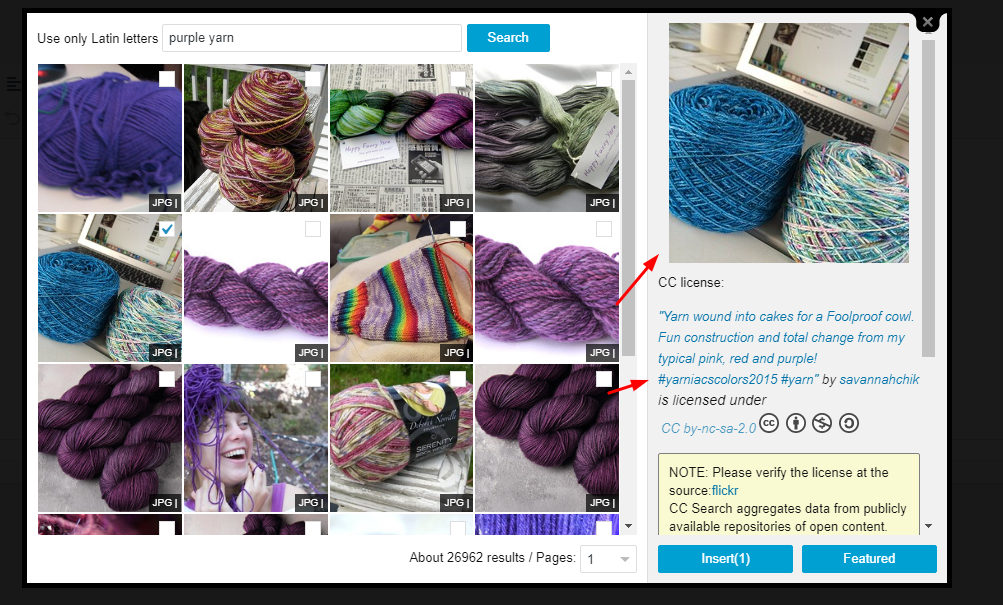
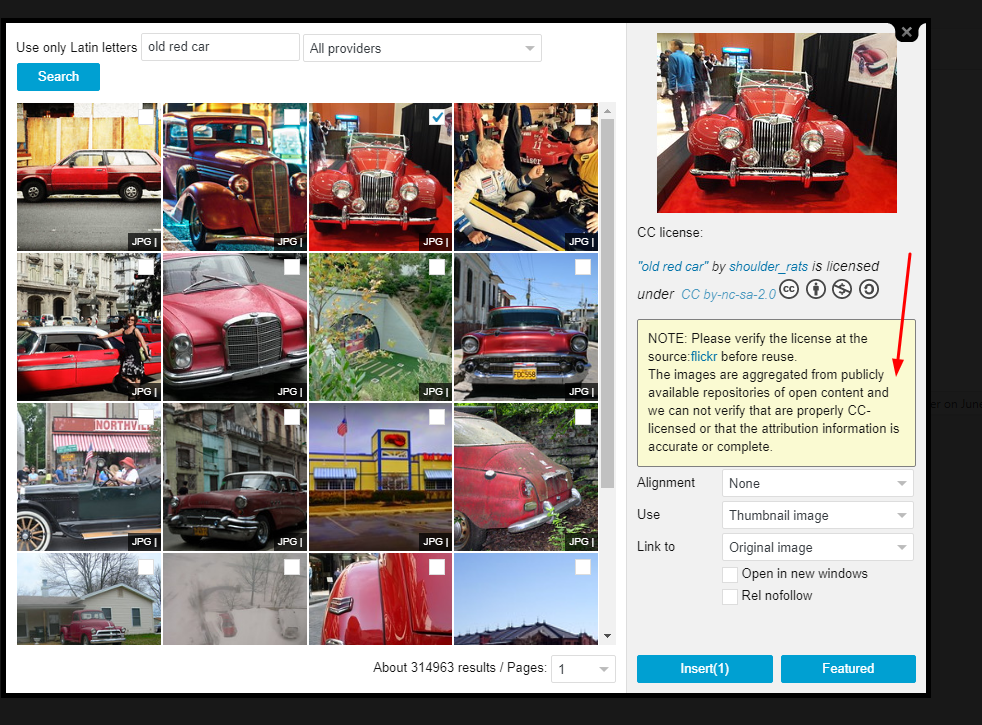
v.0.5.0

diff --git a/assets/js/backend.js b/assets/js/backend.js
@@ -4,7 +4,7 @@ var wpcc_opened = false;
 var wpcc_current = '';
 var wpcc_width_small = '630px';
 var wpcc_width_big = '930px';
-var wpcc_height = '600px';
+var wpcc_height = '700px';
 
 jQuery(document).ready(function ($) {
     let dropdown = $('#wpcc_provider');
@@ -55,6 +55,7 @@ jQuery(document).ready(function ($) {
         } else {
             $.colorbox({
                 width: wpcc_width_small,
+				initialHeight: wpcc_height,						   
                 height: wpcc_height,
                 inline: true,
                 href: "#wpcc_area",
@@ -75,10 +76,10 @@ jQuery(document).ready(function ($) {
             var insertsource = '';
             var align_class = '';
             var editor_id = $('#wpcc_editor_id').val();
-            if ($('#wpcc_align').val() != '') {
-                align = ' align="' + wpcc_escape_html($('#wpcc_align').val()) + '"';
-                align_class = ' class="' + wpcc_escape_html($('#wpcc_align').val()) + '"';
-            }
+           
+		   align = ' align="' + wpcc_escape_html($('#wpcc_align').val()) + '"';
+           align_class = ' class="wpcc_image ' + wpcc_escape_html($('#wpcc_align').val()) + '"';
+           
             var sid = wpcc_selected[i];
             if (wpcc_imgs[sid].img_caption != '') {
                 insert = '[caption id="" ' + align + ']';

diff --git a/index.php b/index.php
@@ -3,7 +3,7 @@
   Plugin Name: WP CCSearch
   Plugin URI: https://github.com/lenasterg/wp_ccsearch
   Description: WP CCSearch helps you search millions of free photos then insert into content or set as featured image very quickly.
-  Version: 0.4.0
+  Version: 0.5.0
   Author: lenasterg, nts on cti.gr, sch.gr
   Author URI: https://lenasterg.wordpress.com
   Text Domain: wp-ccsearch
@@ -12,7 +12,7 @@
 
 defined( 'ABSPATH' ) || exit;
 
-!defined( 'WPCC_VERSION' ) && define( 'WPCC_VERSION', '0.4.0' );
+!defined( 'WPCC_VERSION' ) && define( 'WPCC_VERSION', '0.5.0' );
 !defined( 'WPCC_URI' ) && define( 'WPCC_URI', plugin_dir_url( __FILE__ ) );
 !defined( 'WPCC_REVIEWS' ) && define( 'WPCC_REVIEWS', 'https://wordpress.org/support/plugin/wp-ccsearch/reviews/?filter=5' );
 !defined( 'WPCC_CHANGELOGS' ) && define( 'WPCC_CHANGELOGS', 'https://wordpress.org/plugins/wp-ccsearch/#developers' );
@@ -296,8 +296,8 @@ if ( !class_exists( 'WPCCsearch' ) ) {
 									<label for="wpcc_caption"><?php esc_html_e( 'CC license', 'wp-ccsearch' ); ?>:</label><br/>
 									<input type="hidden" id="wpcc_caption" name="wpcc_caption">
 									<div id="wpcc_caption_display"></div>
-									<div class="wpcc_cc_verify"><?php _e( 'NOTE: Please verify the license at the source', 'wp-ccsearch' ); ?>:<span id="wpcc_sourcelink"></span>
-										<br/><?php _e( 'CC Search aggregates data from publicly available repositories of open content. CC does not host the content and does not verify that the content is properly CC-licensed or that the attribution information is accurate or complete. Please follow the link to the source of the content to independently verify before reuse.', 'wp-ccsearch' ); ?></div>
+									<div class="wpcc_cc_verify"><?php _e( 'NOTE: Please verify the license at the source', 'wp-ccsearch' ); ?>:<span id="wpcc_sourcelink"></span>  <?php _e('before reuse');?>.
+										<br/><?php _e( 'The images are aggregated from publicly available repositories of open content and we can not verify that are properly CC-licensed or that the attribution information is accurate or complete.', 'wp-ccsearch' ); ?></div>
 								</div>
 
 								<div class="wpcc_item_info">

diff --git a/README.md b/README.md
@@ -55,6 +55,11 @@ Currently, the plugin needs Classic Editor (https://wordpress.org/plugins/classi
 
 ## Changelog
 
+### 0.5.0
+* Add class to img
+* Larger colorbox height
+* New strings added
+* New screenshots
 
 ### 0.4.0 
 * Add wp-pointer on editor's button
